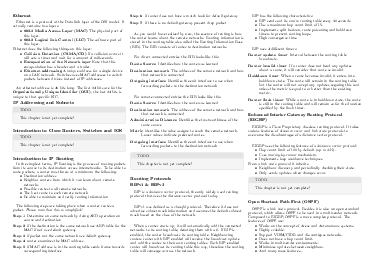
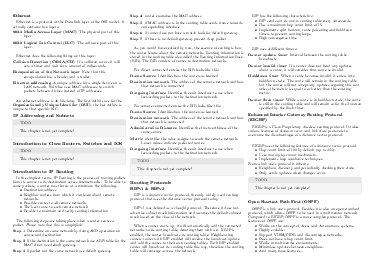
Housekeeping

Changed region(s): [[0.0294, 0.0302, 0.6471, 0.966]]

diff --git a/summary.tex b/summary.tex
@@ -189,37 +189,30 @@ If the host doesn't get an ACK back it will resend the message that have not bee
 eacht TCP header contains a \textit{sequence number} so the host can see which packets have been ACKed. This sequence number
 is also used too reorder the packages in the right order to sent it to the application layer.
 
-\subsubsection{UDP}
-\paragraph{}
-UDP is like TCP a protocol on the Internet layer, that is the only thing they have in common. UDP doesn't have knowledge of
+\subsubsection{User Datagram Procotol (UDP)}
+\paragraph{}UDP is like TCP a protocol on the Internet layer, that is the only thing they have in common. UDP doesn't have knowledge of
 connections or does anything to make sure the package is send and received. The advantage of UDP over TCP is that is doesn't
 have the overhead of TCP (retransmitting packages, keeping track of connections etc.).
 
-\subsubsection{IP (IPv4 only)}
-\paragraph{}
-This is the backbone of the internet, it allows hosts to connect to eachother. Routers uses IP addresses to route IP packets from
+\subsubsection{Internet Protocol (IPv4 only)}
+\paragraph{}This is the backbone of the internet, it allows hosts to connect to eachother. Routers uses IP addresses to route IP packets from
 network to network.
 
 \subsubsection{Ethernet}
-\paragraph{}
-Ethernet is a protocol at the Data link layer of the OSI model. It actually contains two layers:
-
-\begin{itemize}
-	\item \textbf{802.3 Media Access Layer (MAC)} The physical part of this layer.
-	\item  \textbf{802.2 Logical link Control (LLC)} The software part of this layer.
-\end{itemize}
-
-Ethernet does the following things on this layer:
-
-\begin{itemize}
-	\item \textbf{Collision Detection (CSMA/CD)} If a collision occurs it will sets a timer and wait for x amount of miliseconds.
-	\item \textbf{Encapsulation of the Network layer} Note that this encapsulation has a header and a trailer.
-	\item \textbf{Ethernet addressing} A unique address for a single device on a LAN network. Switches uses MAC addresses to switch
+\paragraph{}Ethernet is a protocol at the Data link layer of the OSI model. It actually contains two layers:
+\begin{description}
+	\item [802.3 Media Access Layer (MAC)] The physical part of this layer.
+	\item [802.2 Logical link Control (LLC)] The software part of this layer.
+\end{description}
+\paragraph{}Ethernet does the following things on this layer:
+\begin{description}
+	\item [Collision Detection (CSMA/CD)] If a collision occurs it will sets a timer and wait for x amount of miliseconds.
+	\item [Encapsulation of the Network layer] Note that this encapsulation has a header and a trailer.
+	\item [Ethernet addressing] A unique address for a single device on a LAN network. Switches uses MAC addresses to switch
 	packets between divices instead of IP addresses.
-\end{itemize}
+\end{description}
 
-\paragraph{}
-An ethernet address is 48 bits long. The first 24 bits are for the \textbf{Organizationally Unique Identifier (OUI)}, the last 24 bits
+\paragraph{}An ethernet address is 48 bits long. The first 24 bits are for the \textbf{Organizationally Unique Identifier (OUI)}, the last 24 bits
 is unique to that specific NIC.
 
 \subsection{IP Addressing and Subnets}
